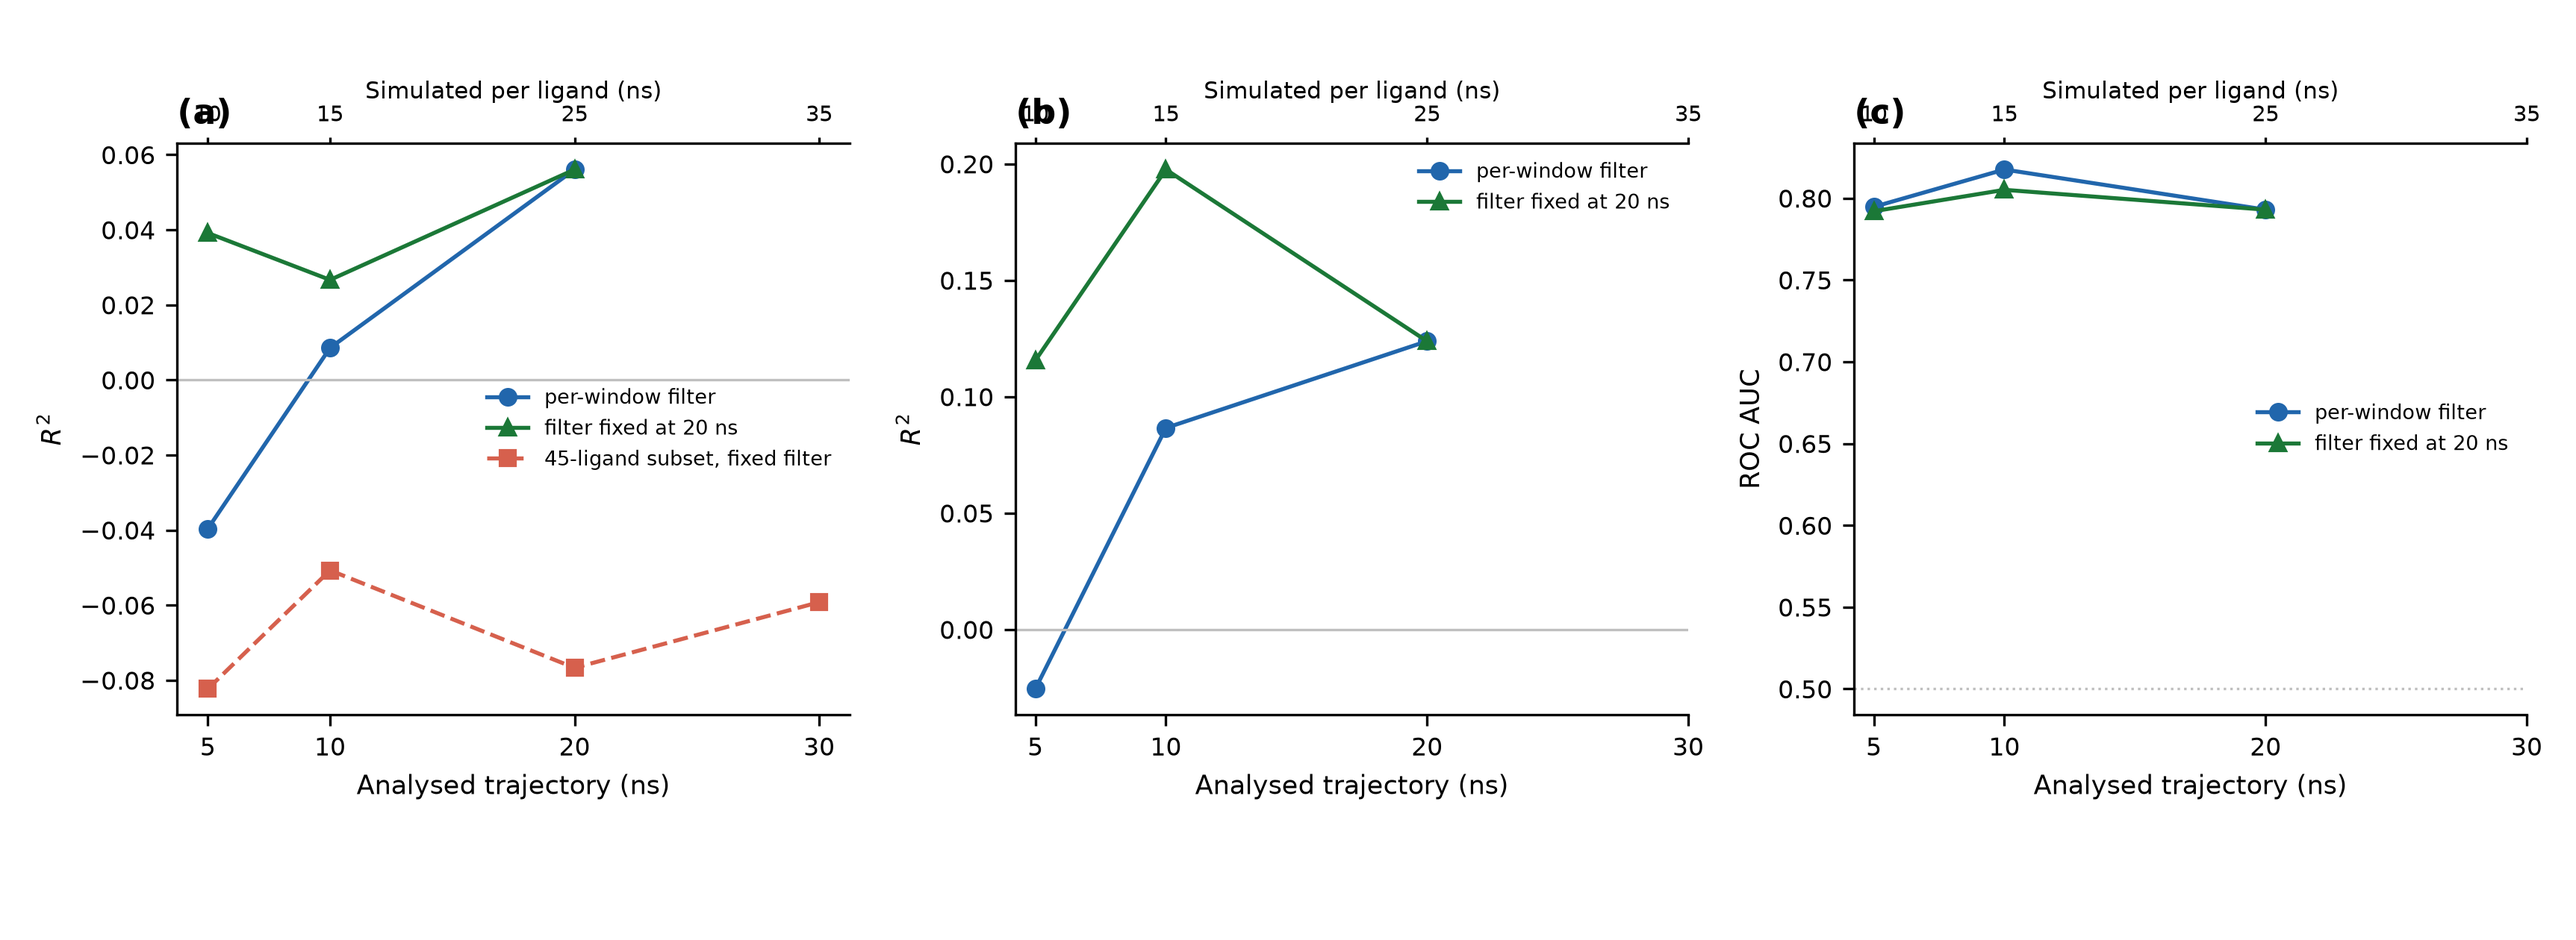
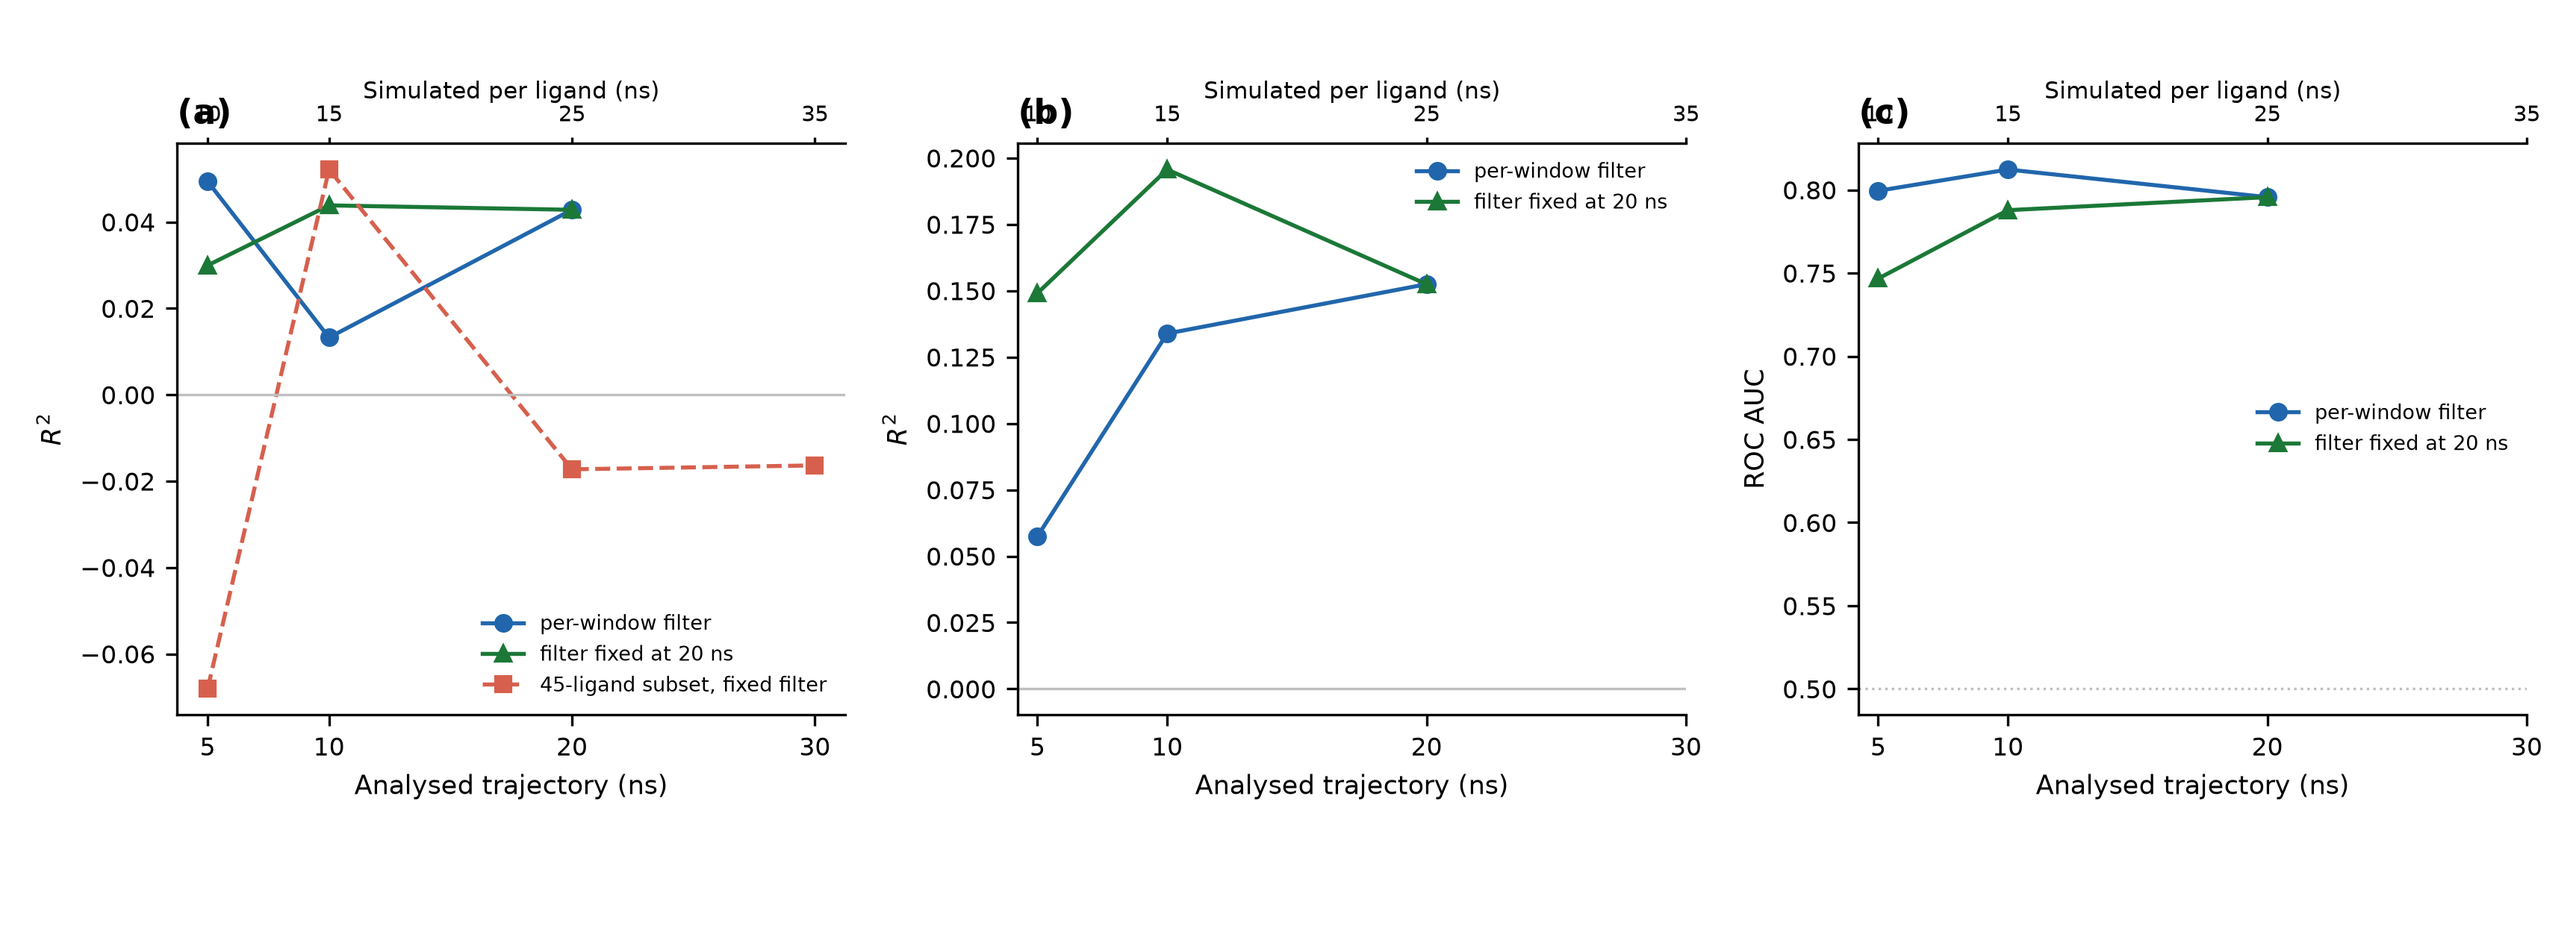
Re-run the duration ablation against the re-run replicate filter
The curve was computed while the filter still rested on four replicate ligands
and 30 scored ones. fig_duration.py reads the filter live, so regenerating it
was the fix; the 20 ns column now reproduces the ladder exactly at A 0.043,
B 0.152 and C 0.796, which it could not before.

The conclusion is unchanged. Framing A moves over 0.014 instead of 0.029,
framing B still peaks at 10 ns, and framing C now rises monotonically by 0.049
from 5 to 20 ns, inside the bootstrap interval of about 0.10 on that framing.
The figure caption said the per-window filter selects 15, 14 and 12 features
and it now selects 14, 14 and 12, differing in membership at 5 and 10 ns
although the count there is the same.

diff --git a/manuscript/sections/03_results.tex b/manuscript/sections/03_results.tex
@@ -356,20 +356,21 @@ $-0.054$ unfiltered; \framingC{} $0.796$ against $0.721$.}
   \caption{\textbf{Trajectory length is not the limiting factor between 5 and
     20~ns.} Panels show (a)~\framingA{}, (b)~\framingB{} and (c)~\framingC{}, with
     descriptors recomputed on the first 5, 10, 20 and 30~ns of analysed
-    trajectory. The per-window replicate filter selects 15, 14 and 12 descriptors
-    respectively, so it confounds trajectory length with descriptor choice; the
-    fixed series holds the 20~ns selection at every window and isolates length.
+    trajectory. The per-window replicate filter gives 14, 14 and 12 features at 5, 10
+    and 20~ns and does not select the same ones at each, so it confounds trajectory
+    length with descriptor choice; the fixed series holds the 20~ns selection at every
+    window and isolates length.
     Only 45 development ligands reach 30~ns, drawn as their own series and never
     joined to the full-sample line.}
   \label{fig:duration}
 \end{figure}
 
-\TODO{Prose. With a fixed descriptor set, \framingA{} is flat
-  ($+0.039$, $+0.027$, $+0.056$) and \framingB{} peaks at 10 ns ($+0.116$, $+0.198$, $+0.124$ at the old filter; the
-duration ablation has not been re-run since the filter changed). The spread is inside the study's resolution, so
-  the conclusion is no resolvable dependence on length -- which answers the cost
-  objection with data.}
-\NOTE{Do NOT quote the $+0.198$ as a result. It is the best of six cells computed
+\TODO{Prose. With a fixed descriptor set, \framingA{} is flat ($+0.030$, $+0.044$,
+  $+0.043$), \framingB{} peaks at 10 ns ($+0.149$, $+0.196$, $+0.152$) and \framingC{}
+  rises a little with length ($0.747$, $0.788$, $0.796$). Every spread is inside the
+  study's resolution, so the conclusion is no resolvable dependence on length -- which
+  answers the cost objection with data.}
+\NOTE{Do NOT quote the $+0.196$ as a result. It is the best of six cells computed
   together and it is the kind of number this paper exists to warn about.}
 
 \NOTE{Discussion. Trajectory length is not the lever, and the practical reading is

diff --git a/results/36_pilot_rerun.md b/results/36_pilot_rerun.md
@@ -54,4 +54,30 @@ it is resolved against rung 4, while B and C remain unresolved. The bootstrap le
 carry the known duplicate-resampling bias and are not performance estimates; the gap is
 the quantity to read.
 
-The duration ablation has **not** been re-run against the new filter.
+## Duration ablation, re-run
+
+`fig_duration.py` reads the filter live, so re-running it was the whole fix. The fixed
+series holds the 20 ns selection at every window and is the series that isolates length.
+
+| window | A, first run | A, re-run | B, first run | B, re-run | C, first run | C, re-run |
+|---:|---:|---:|---:|---:|---:|---:|
+| 5 ns | 0.039 | **0.030** | 0.116 | **0.149** | 0.792 | **0.747** |
+| 10 ns | 0.027 | **0.044** | 0.198 | **0.196** | 0.805 | **0.788** |
+| 20 ns | 0.056 | **0.043** | 0.124 | **0.152** | 0.793 | **0.796** |
+
+The 20 ns column now matches the ladder exactly, which is the check that matters: the
+same descriptor set scored by the same code has to give the same number in both places,
+and it does (A 0.043, B 0.152, C 0.796).
+
+The reading is unchanged and is in places firmer. Framing A moved over a range of 0.029
+across the three windows and now moves over 0.014. Framing B still peaks at 10 ns.
+Framing C now rises monotonically with length, by 0.049 from 5 to 20 ns, where before it
+moved without direction; that is well inside the bootstrap interval of roughly 0.10 on
+this framing, so it does not become a dependence on length.
+
+The per-window filter is also less uneven than before. It passes 13, 13 and 11
+descriptors at 5, 10 and 20 ns, against 14, 13 and 11 before, but the membership at 5
+and 10 ns still differs by one, so the adaptive series continues to confound length with
+descriptor choice and the fixed series remains the one to read.
+
+The 45-ligand subset that reaches 30 ns does not rise past 20 ns, as before.

diff --git a/results/16d_duration_ablation.md b/results/16d_duration_ablation.md
@@ -94,3 +94,23 @@ Not applied to: the 28 phase-1 runs and 12 replicates already finished at 50 ns.
 adjustment. Every JSON carries the 5/10/20/30 ns windows, so the primary table is built on the
 common 20 ns window for every run regardless of how long it was simulated, and the 50 ns
 subset remains available as a robustness check.
+
+---
+
+## Re-run (2026-10-19): recomputed against the re-run replicate filter
+
+The filter this ablation holds fixed was itself recomputed in stage 36, once all six
+replicate sets and all 217 ligands had finished, so the curve was regenerated. The
+numbers above that describe the mechanics, the cost table and the bit-identical check
+are unaffected, as none of them depends on which descriptors the filter selects.
+
+The outcome of the ablation did not change. With the descriptor set held at the 20 ns
+selection, framing A is flat across 5, 10 and 20 ns, framing B peaks at 10 ns, and
+framing C rises by 0.049 over the same range, every spread being inside the resolution
+this study can claim. The 2026-10-02 decision to simulate 25 ns stands, and it was taken
+on the replicate pilot rather than on this curve in any case.
+
+Note that the paragraph above recording that decision quotes the filter as it stood then,
+i.e. 12 of 15 usable descriptors surviving at 20 ns. That was the state of the evidence
+on which the decision was made and is left as written; the current filter passes 11 at
+20 ns, which stage 36 records.
